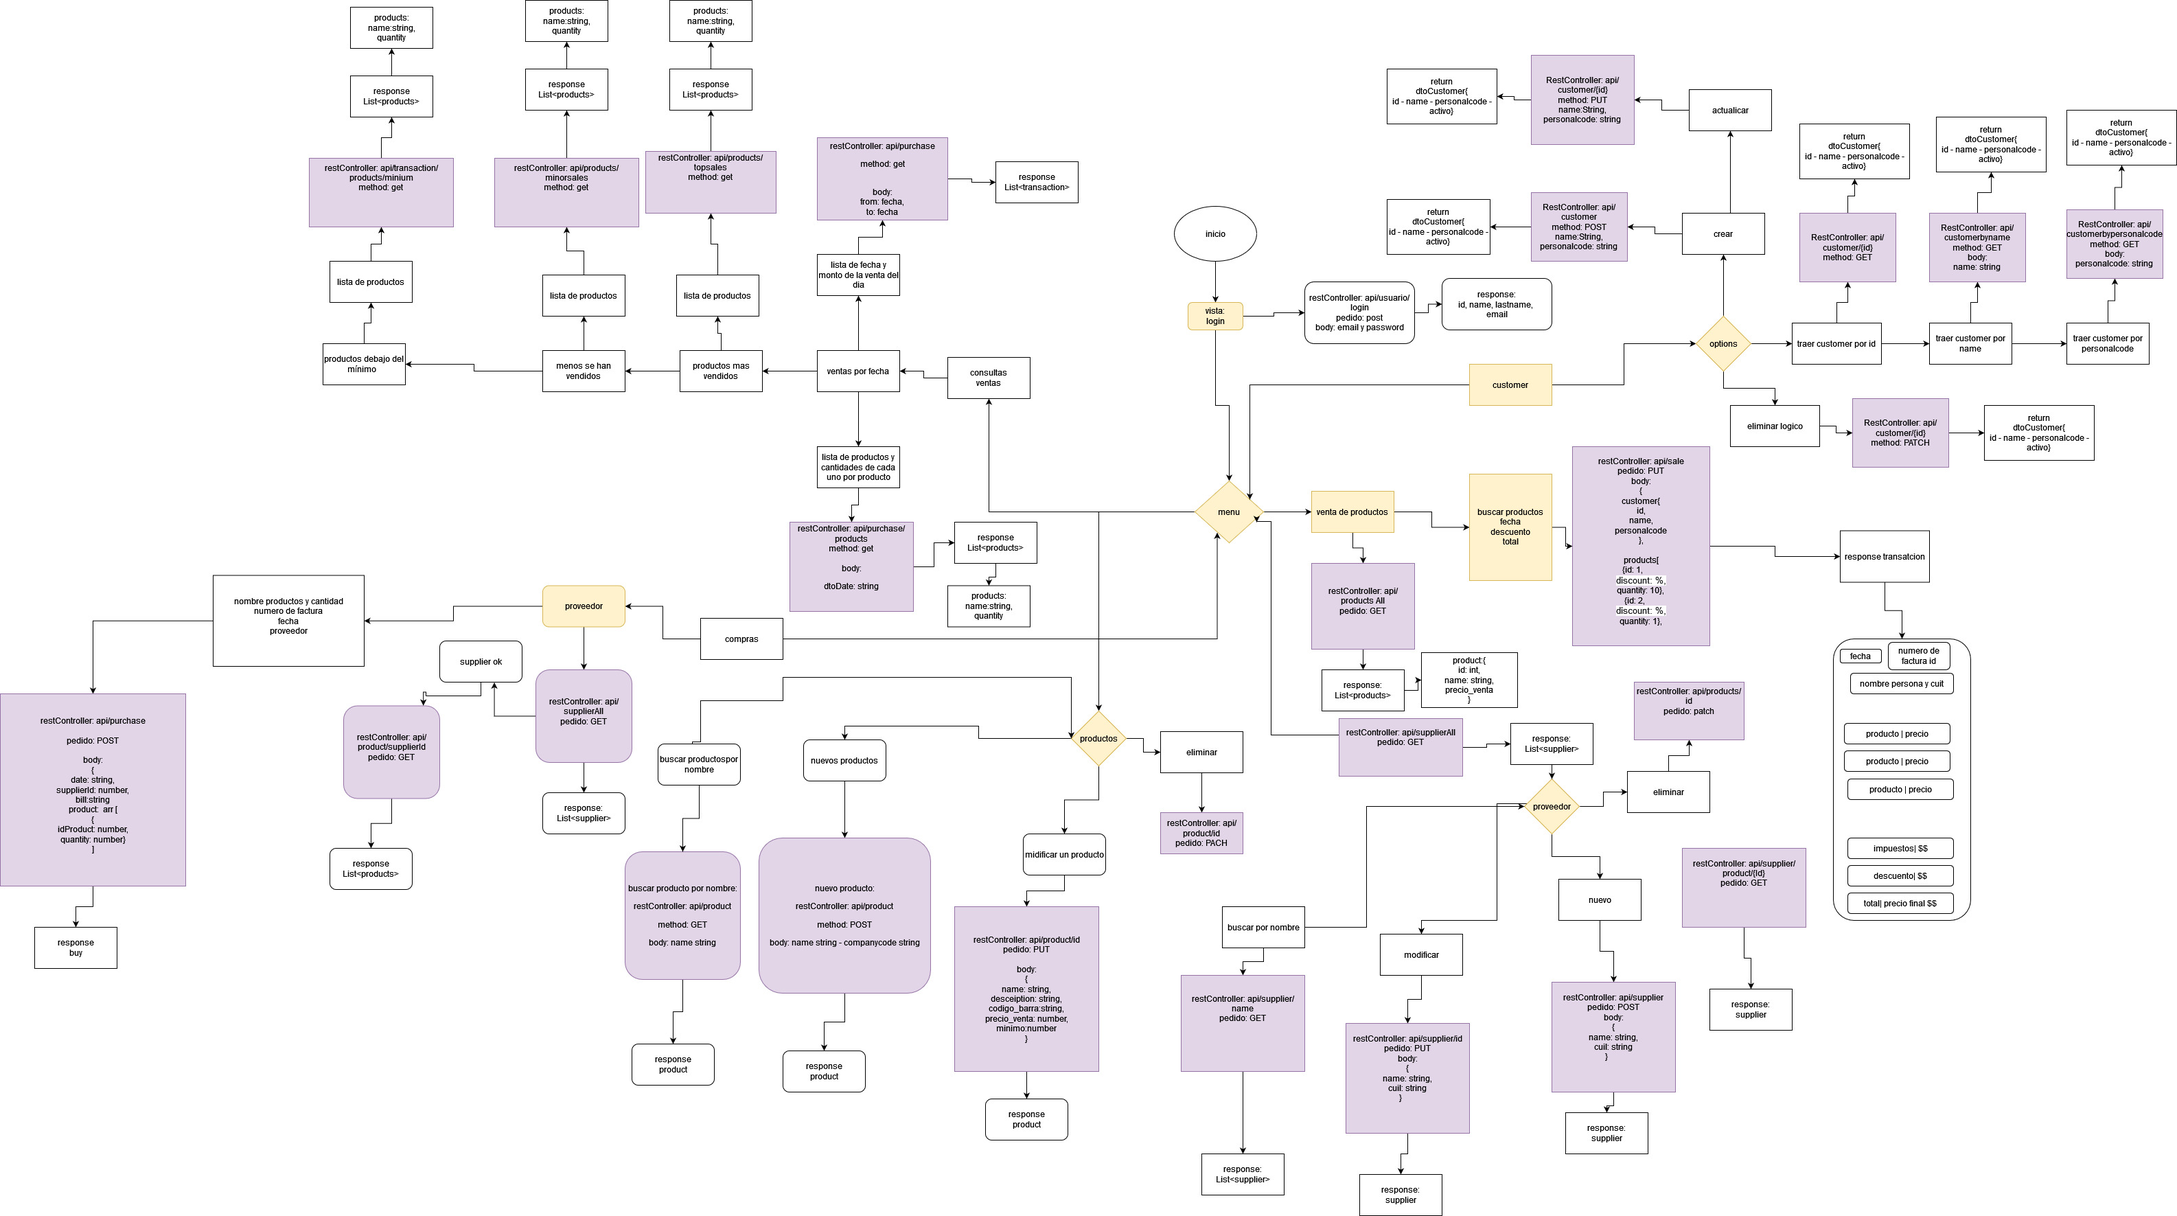
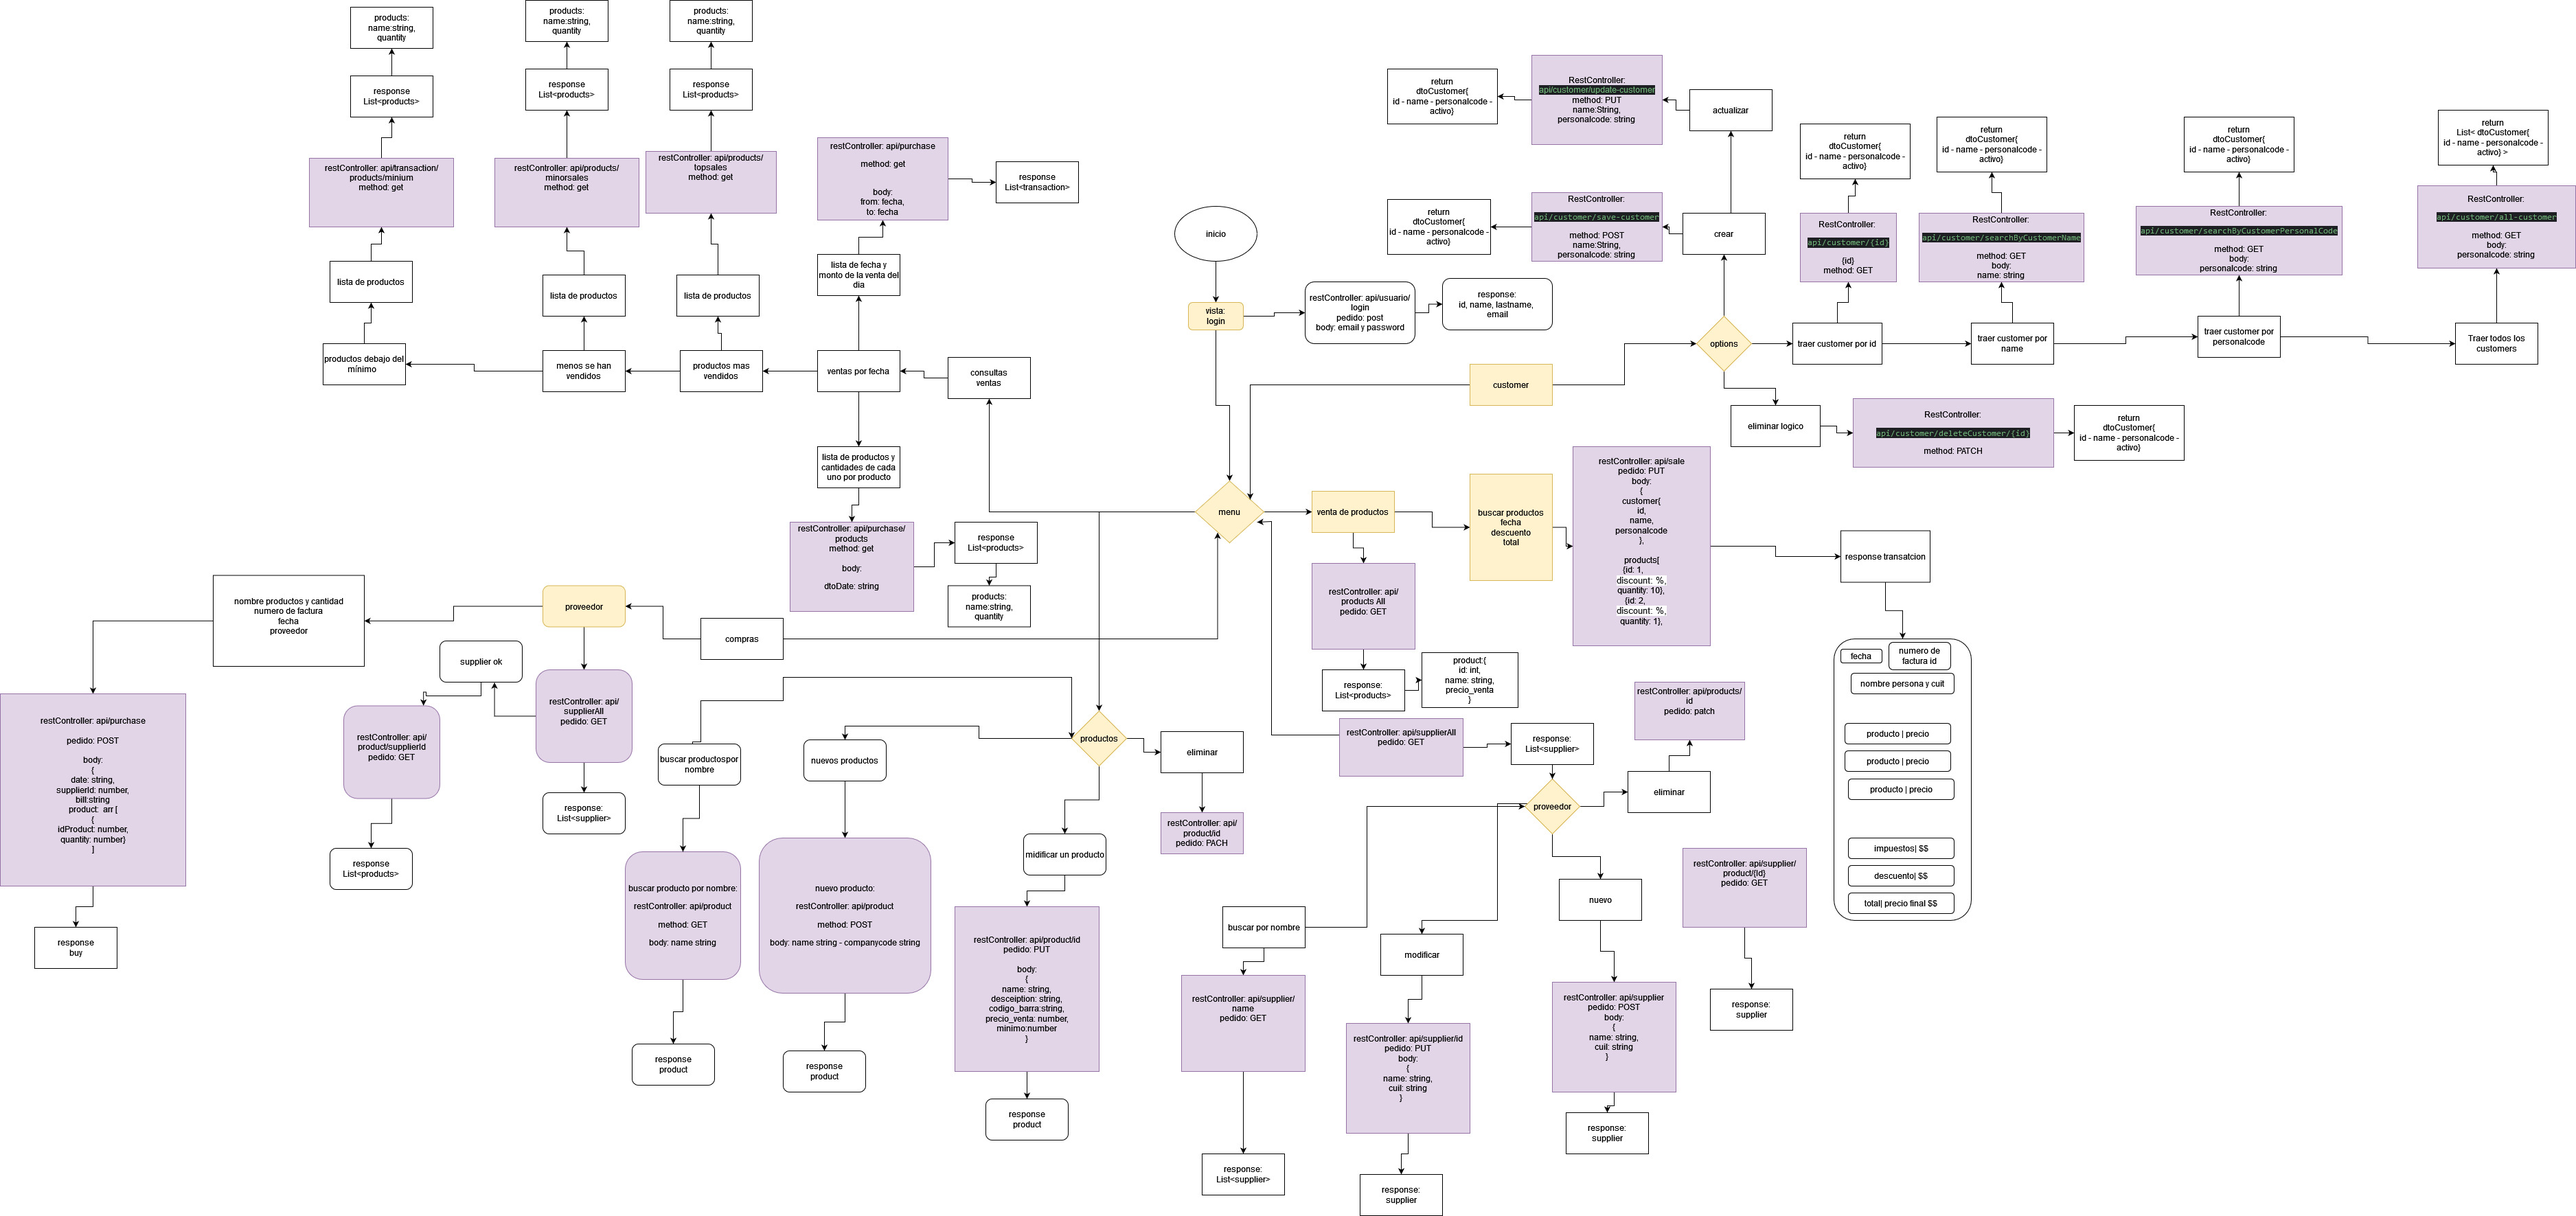
agregando la funcionalidad en el diagrama paara el customer

diff --git a/backend/src/main/java/com/stockmaster/service/customer/CustomerService.java b/backend/src/main/java/com/stockmaster/service/customer/CustomerService.java
@@ -32,7 +32,7 @@ public class CustomerService {
         Customer customer = customerMapper.customerRequestToPost(customerSavingRequest);
         return customerMapper.toCustomerResponse(customerRepository.save(customer));
     }
-    public void delete(Long id){customerRepository.deleteById(id);}
+    public void delete(Long id){customerRepository.deleteById(id);}//el delete es logico, tiene que ser un patch
     public List<CustomerResponse>findByAll(){
         return customerRepository.findAll().stream()
                 .map(customerMapper::toCustomerResponse).toList();

diff --git a/backend/src/main/java/com/stockmaster/dto/customer/CustomerUpdateRequest.java b/backend/src/main/java/com/stockmaster/dto/customer/CustomerUpdateRequest.java
@@ -16,4 +16,5 @@ public class CustomerUpdateRequest {
     private Long id;
     @NotBlank
     private String name;
+    //falta el personalcode
 }
